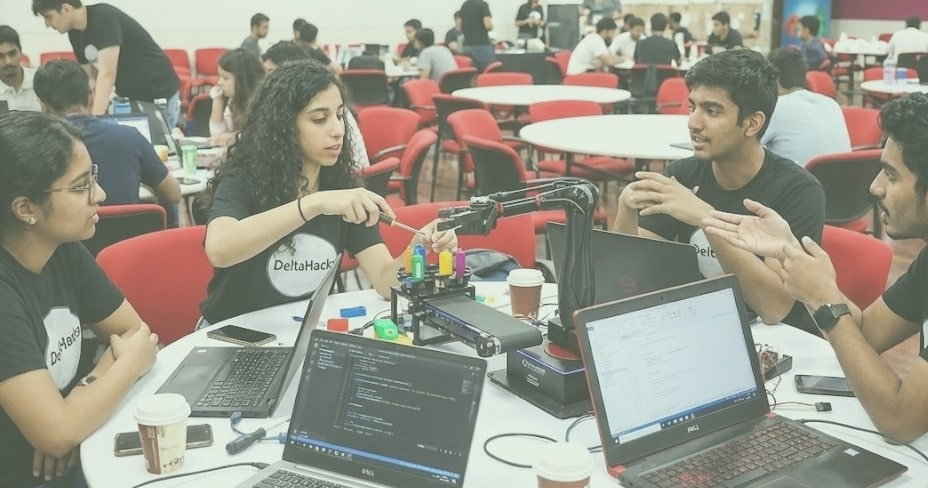
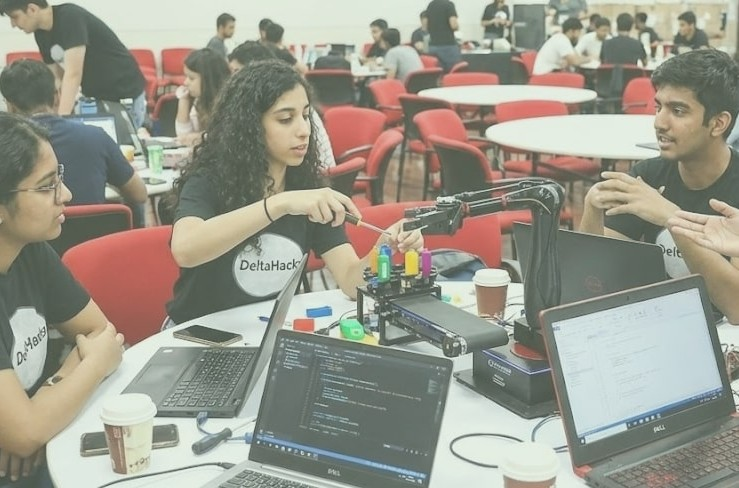
Fix image

diff --git a/style.css b/style.css
@@ -367,8 +367,8 @@ button.icon:active { transform: translateY(0); }
 
 .h-item img {
   display: block;
-  max-width: 115%;
-  max-height: 130%;
+  max-width: 125%;
+  max-height: 100%;
   width: auto;
   height: auto;
   object-fit: contain;   /* show full image */
